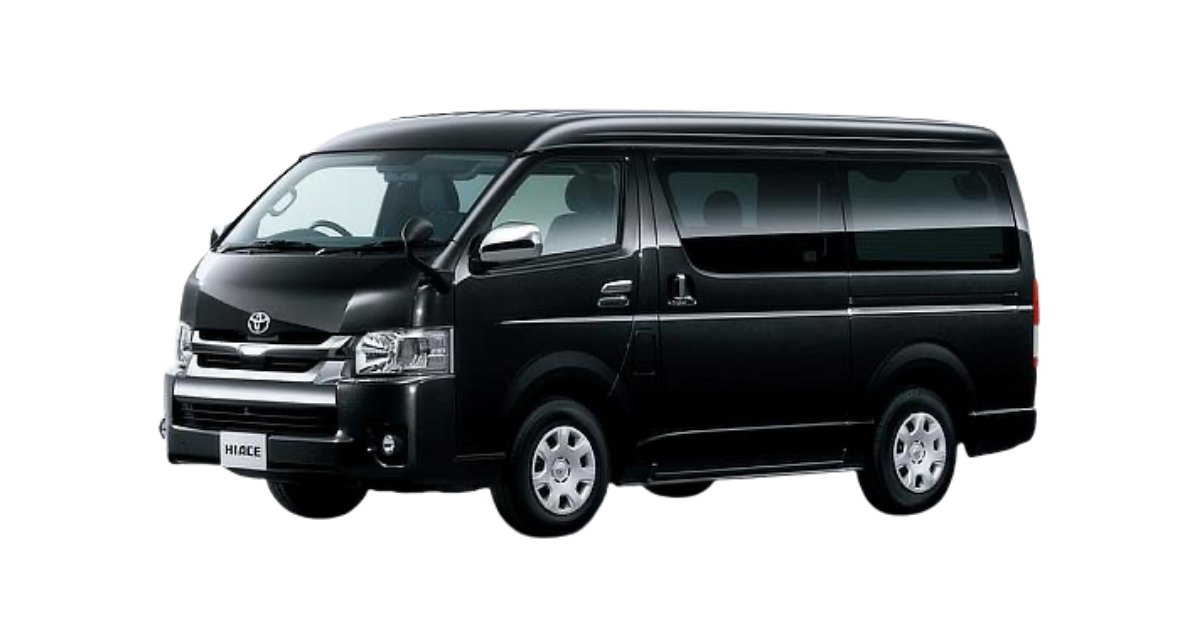
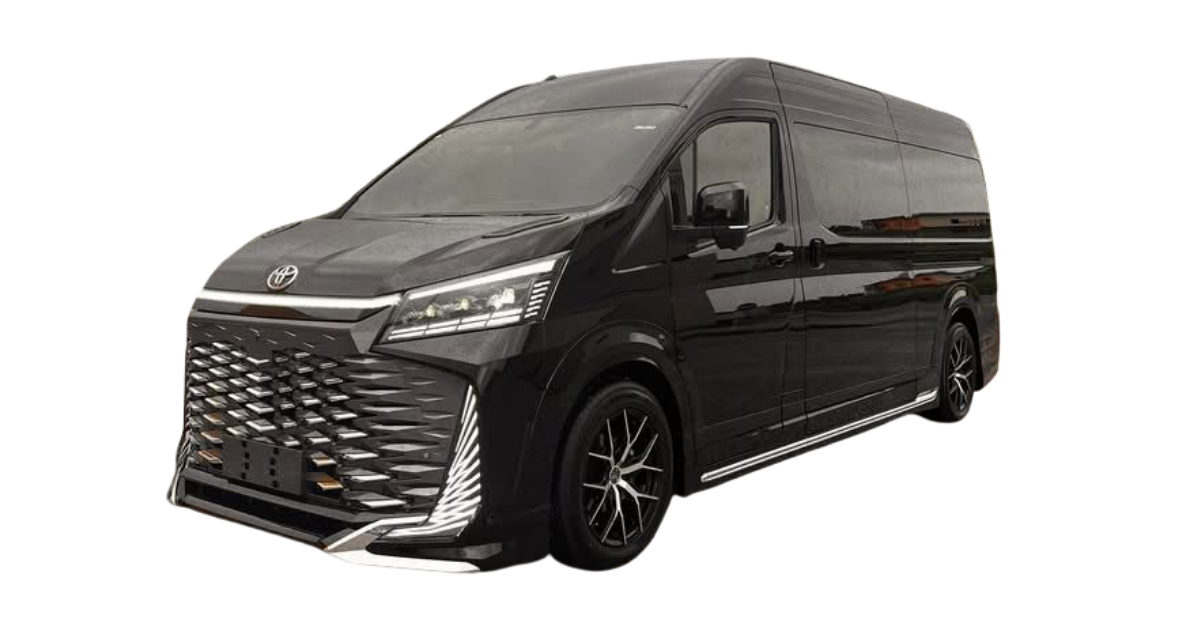
Update fleet display images for Hiace and Vellfire AGH30.
Point the fleet cards to the newly added local image assets and include the latest Hiace image update in the image folder.

Made-with: Cursor

diff --git a/index.html b/index.html
@@ -2006,7 +2006,7 @@ footer ul a:hover { color: var(--gold); padding-left: 4px; }
         data-int3="image/toyota-hiace-interior-3.png">
         <div class="vehicle-img">
           <span class="vehicle-pax">5–12 PAX</span>
-          <img src="image/toyota hiace van.png" alt="Toyota Hiace Van" />
+          <img src="image/toyata hiace van.png" alt="Toyota Hiace Van" />
         </div>
         <div class="vehicle-body">
           <h3>Toyota Hiace Van</h3>
@@ -2031,7 +2031,7 @@ footer ul a:hover { color: var(--gold); padding-left: 4px; }
         <div class="vehicle-img">
           <span class="vehicle-tag">Premium</span>
           <span class="vehicle-pax">1–6 PAX</span>
-          <img src="image/toyota vellfire agh30.png" alt="Toyota Vellfire" />
+          <img src="image/vellfire agh30.png" alt="Toyota Vellfire" />
         </div>
         <div class="vehicle-body">
           <h3>Toyota Vellfire</h3>
